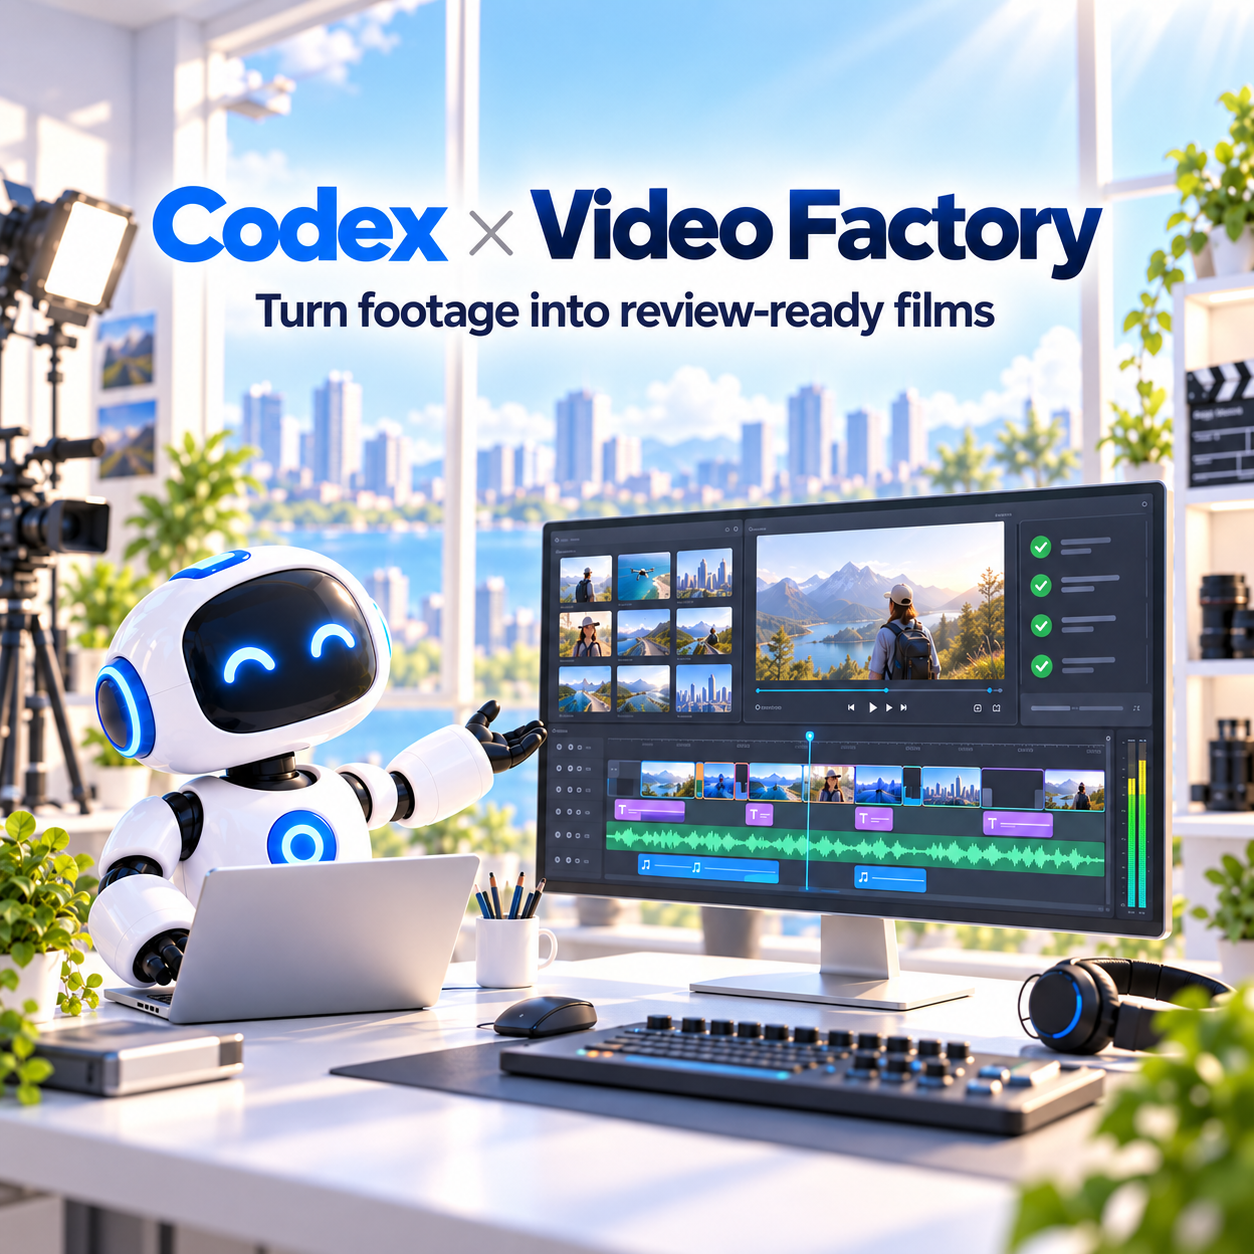
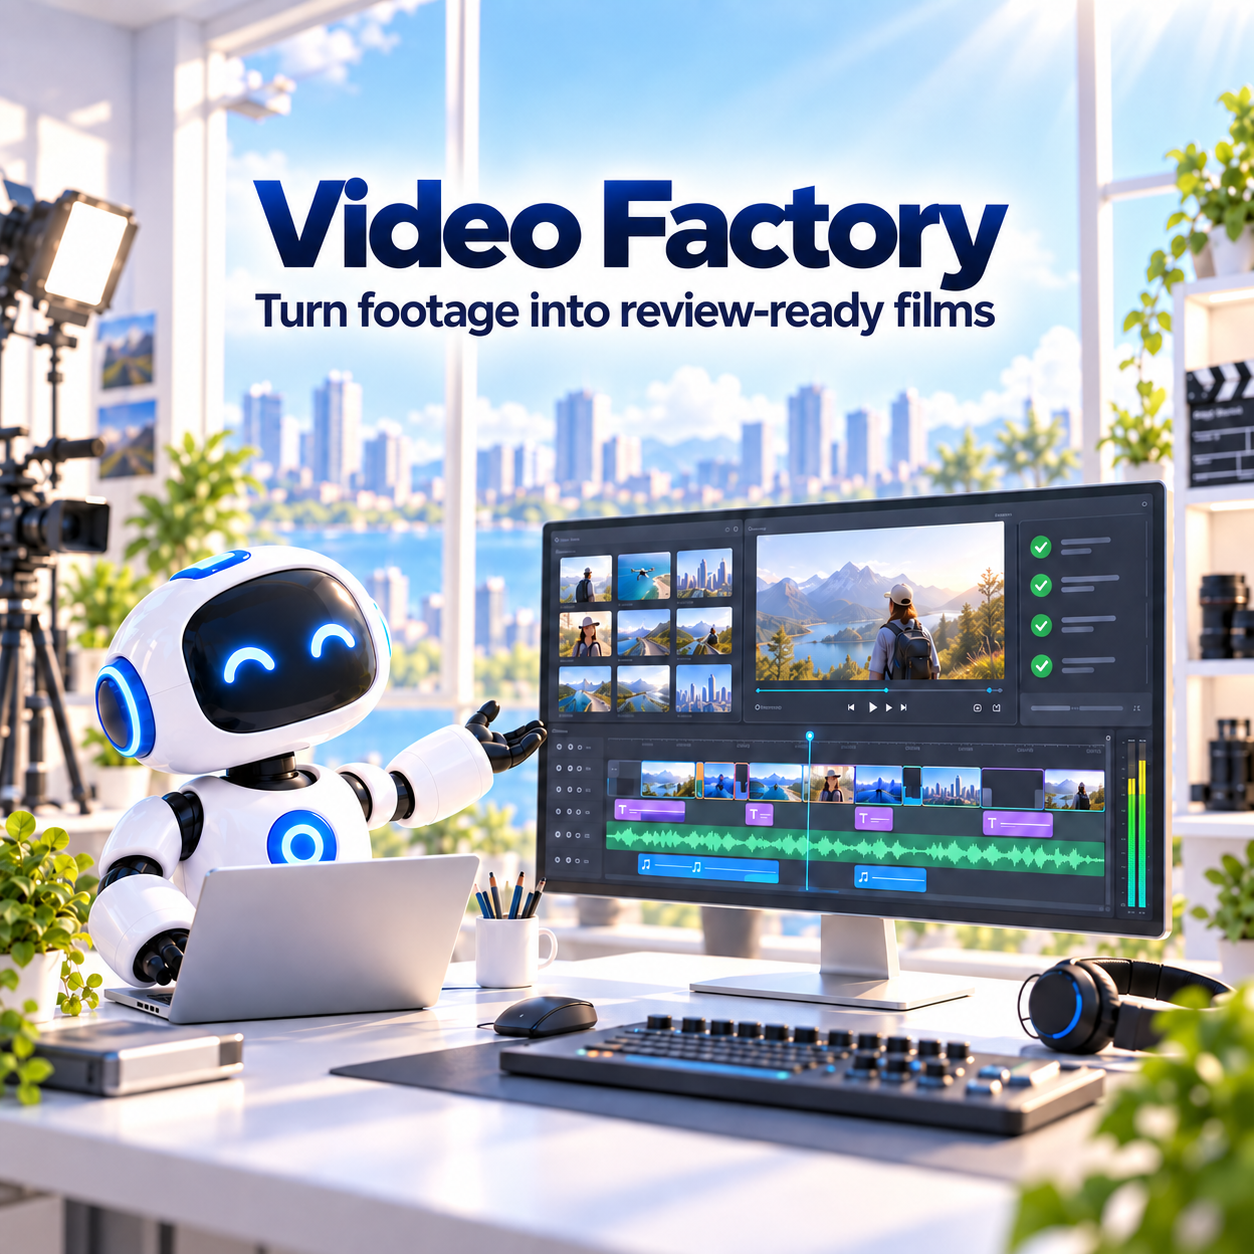
fix: 统一跨宿主公开品牌

diff --git a/README.md b/README.md
@@ -1,17 +1,17 @@
 # Video Factory
 
-![Codex × Video Factory — Turn footage into review-ready films](assets/video-factory-hero.png)
+![Video Factory — Turn footage into review-ready films](assets/video-factory-hero.png)
 
-> Local-first shot analysis, approved edit planning, deterministic FFmpeg composition, and verified media receipts — driven from Codex.
+> Local-first shot analysis, approved edit planning, deterministic FFmpeg composition, and verified media receipts — driven from your supported coding agent.
 
-[![Version](https://img.shields.io/badge/version-0.1.4-blue)](https://github.com/full-aigc-plugins/video-factory-plugin/releases/tag/v0.1.4)
+[![Version](https://img.shields.io/badge/version-0.1.5-blue)](https://github.com/full-aigc-plugins/video-factory-plugin/releases/tag/v0.1.5)
 [![License](https://img.shields.io/badge/license-Apache--2.0-green)](LICENSE)
 
 [English](README.md) | [简体中文](README.zh-CN.md) · [Install](#installation) · [Quick start](#quick-start) · [Commands](#command-contract) · [Troubleshooting](#troubleshooting)
 
 ## Positioning
 
-`video-factory` turns existing footage into an approved, verifiable edit. Codex analyzes shots, proposes an edit decision, asks for your approval per stage, renders through local FFmpeg, and records a receipt for every output file. There is no cloud service, no API key, and no vendor upload.
+`video-factory` turns existing footage into an approved, verifiable edit. The host agent analyzes shots, proposes an edit decision, asks for your approval per stage, renders through local FFmpeg, and records a receipt for every output file. There is no cloud service, no API key, and no vendor upload.
 
 The repository keeps the canonical `video` spelling across repository, plugin, package, CLI, and Skill identifiers.
 
@@ -54,7 +54,7 @@ Rough cut / final cut (H.264 + AAC MP4) + receipts
 |---|---|
 | Plugin ID | `video-factory` |
 | Host | Codex CLI or ChatGPT desktop app |
-| Current version | `0.1.4` |
+| Current version | `0.1.5` |
 | Plugin manifest | `.codex-plugin/plugin.json` |
 | MCP configuration | none — this plugin exposes a Skill-driven CLI, not an MCP server |
 | Primary language | Node.js (ESM), zero runtime dependencies |
@@ -114,7 +114,7 @@ flowchart LR
 | `src/ffmpeg-compiler.mjs` | Deterministic argv and content-addressed segment keys | Approval decisions |
 | `src/job-ledger.mjs` | Durable state, atomic writes, resume points | Render execution |
 | `src/approval.mjs` | Binding an approval to stage, plan, edit, round, and quote hashes | Cost estimation |
-| `skills/` (7) | Routing, planning, review, and recovery instructions for Codex | Runtime behaviour |
+| `skills/` (7) | Routing, planning, review, and recovery instructions for supported hosts | Runtime behaviour |
 
 ## Compatibility
 
@@ -130,7 +130,7 @@ CI exercises Node 18 and Node 24. Any platform with Node and FFmpeg works; the r
 ### From the plugin marketplace
 
 ```bash
-codex plugin marketplace add full-aigc-plugins/video-factory-plugin --ref v0.1.4
+codex plugin marketplace add full-aigc-plugins/video-factory-plugin --ref v0.1.5
 codex plugin add video-factory@partme-ai-video-factory
 ```
 

diff --git a/CHANGELOG.md b/CHANGELOG.md
@@ -1,5 +1,11 @@
 # Changelog
 
+## 0.1.5 - 2026-09-20
+
+- Replaced Codex-first public branding with host-neutral Video Factory identity in documentation and release artwork.
+- Retained explicit Codex, ZCode, and Kimi names only for host-specific installation and manifest contracts.
+- Added a regression gate for obsolete host-prefixed public product naming; runtime behavior is unchanged.
+
 ## 0.1.0 - 2026-09-14
 
 - Vendored original `video-shots` and `video-sync` Skills at ReelBench commit

diff --git a/docs/Video-Factory-Plugin-Architecture.md b/docs/Video-Factory-Plugin-Architecture.md
@@ -173,7 +173,7 @@ bin/video-factory status video-plan.json
 
 ## 10. Deployment, compatibility, and evolution
 
-The plugin ships as a Codex plugin whose runtime is a vendored CLI. There is no daemon, no service, and no network listener. CI runs the suite on Node 18 and Node 24.
+The plugin ships across Codex, ZCode, and Kimi hosts with a vendored CLI runtime. There is no daemon, no service, and no network listener. CI runs the suite on Node 18 and Node 24.
 
 | Aspect | Position |
 |---|---|
